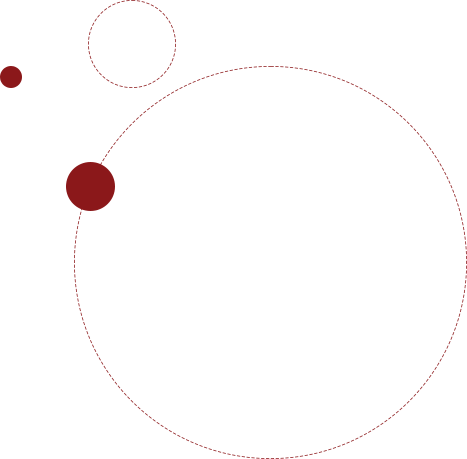
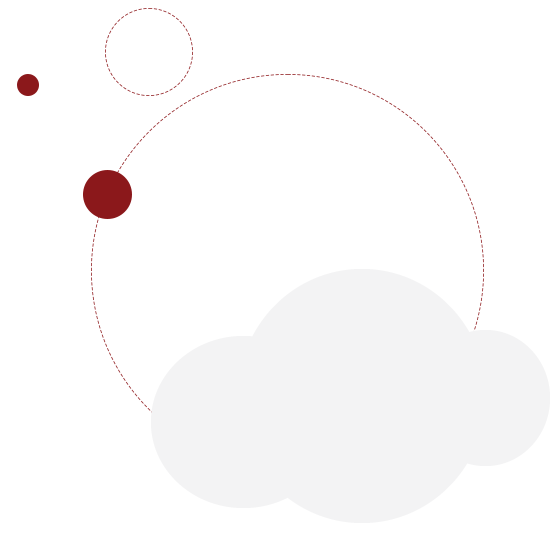
up

diff --git a/src/styles/_care.scss b/src/styles/_care.scss
@@ -22,17 +22,15 @@
     }
 
     .bg {
-        color: transparent;
         position: absolute;
-        top: -100px;
-        right: 31px;
+        top: -115px;
+        right: -70px;
     }
 
     .bg1 {
-        color: transparent;
         position: absolute;
-        top: -70px;
-        right: -17px;
+        top: -128px;
+        right: -76px;
     }
 
 
@@ -121,6 +119,8 @@
             padding-top: 130px;
 
             .hover-item {
+                margin-top: 30px;
+
                 h5 {
                     font-weight: 500;
                     color: $primary;
